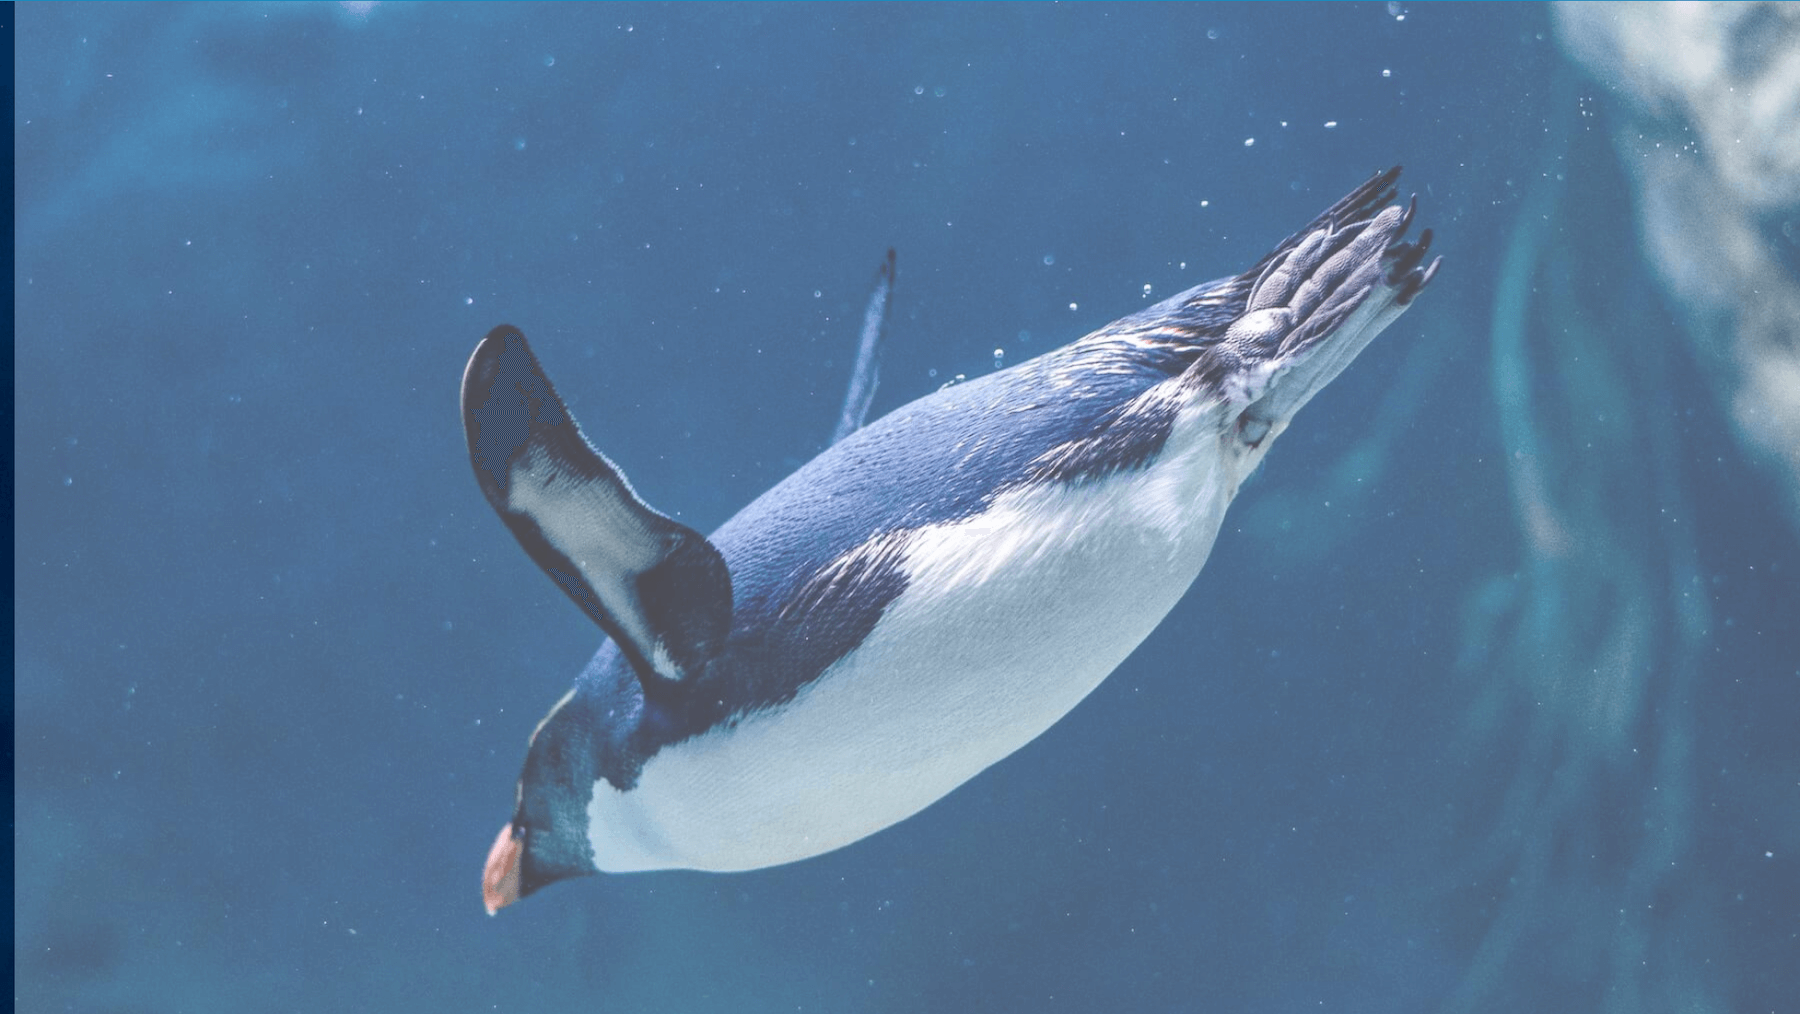
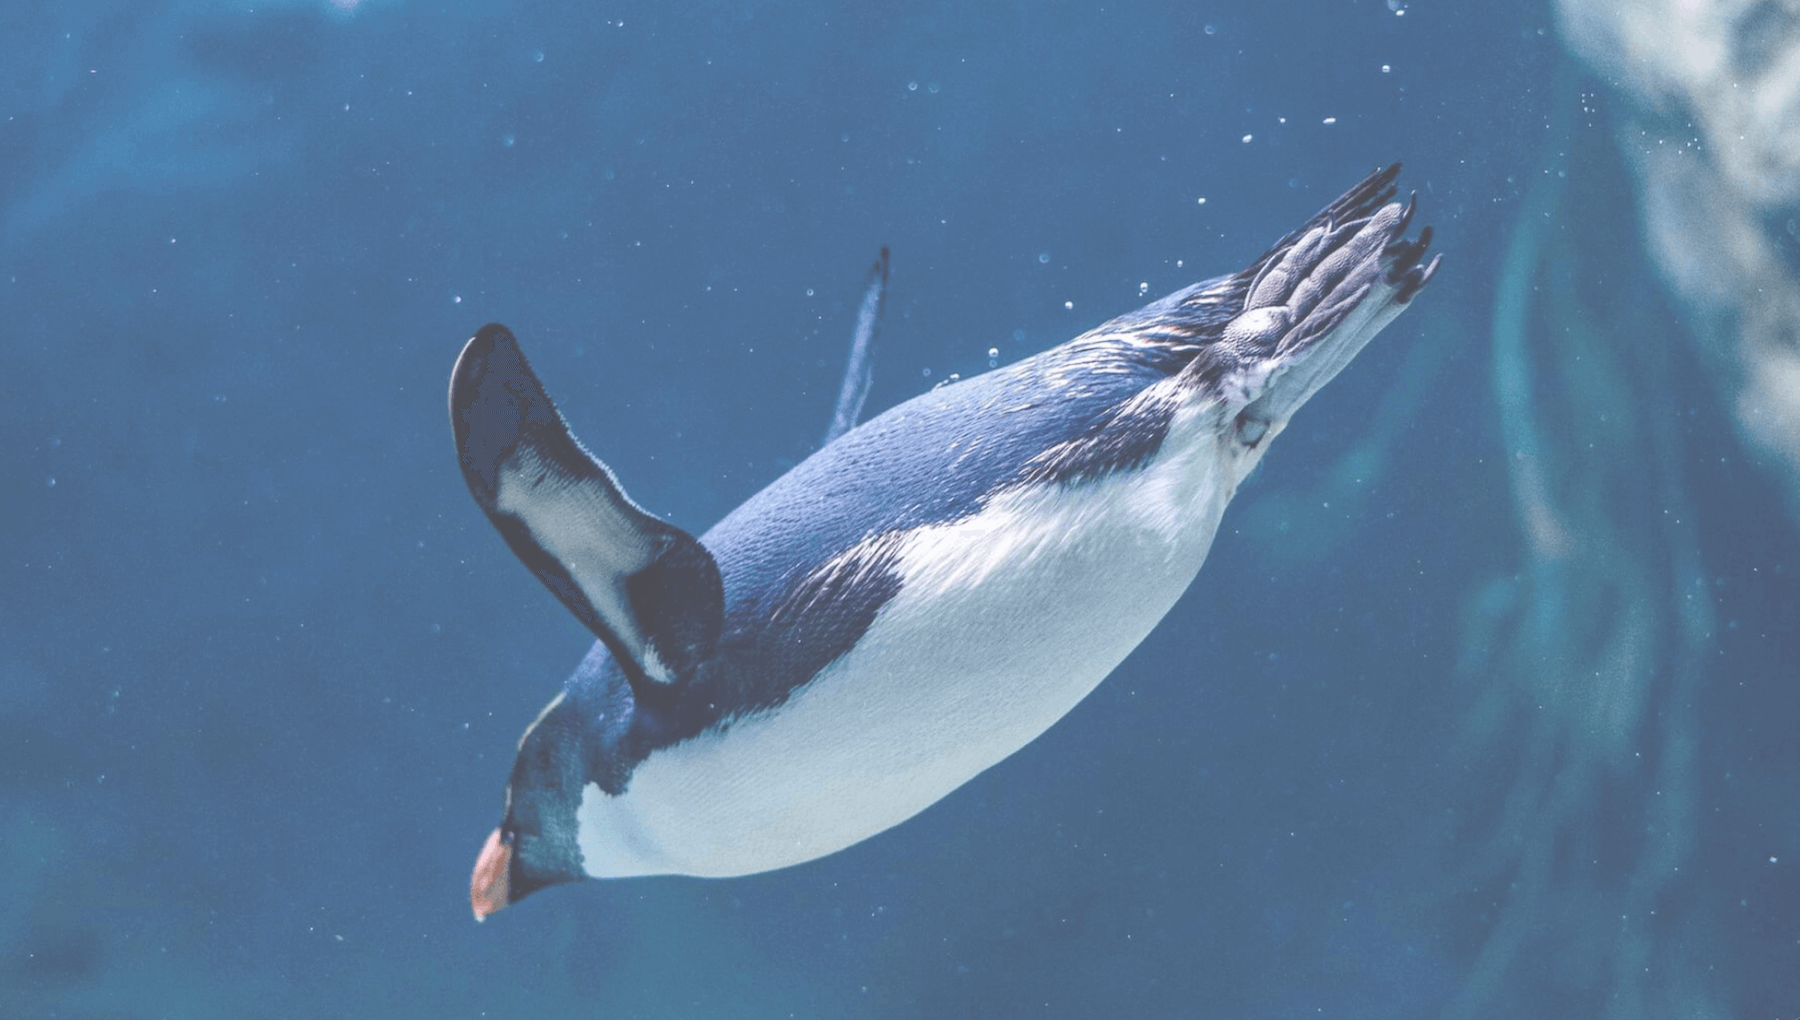
changing the background and last section

diff --git a/index.html b/index.html
@@ -101,45 +101,46 @@
 </section>
 
 <!----------------------- Testimonial section ------------------------>
-<section class="padded grid padded-sm">
+<section class="padded tall-80 grid">
      <!---- background image penguin in front ---->
-    <div class="bg-image bg-penguin-front padded-md bg-oval col-4 tall-70"> 
+    <div class="bg-image bg-penguin-front padded-md bg-oval col-4"> 
     </div>
 
-     <div class="col-2-middle font-weight-light padded-md">
+     <div class="col-4 text-center font-weight-light padded-md">
         <p> Pertti is one of our penguins who was saved last year, he has now his girlfriend and seems really happy. </p>
         <p> See the videos from the Island and how the penguins live. </p>
         <p> When the newborn going to adapt to make it on their own the mother is right there to follow them trough the journey. </p>
     </div>
 
-    <div class="col-3 grid-right padded-sm">
+    <div class="col-4 grid-right padded-sm">
       <div class="youtube-container col-8 padded-sm">
         <div class='embed-container'>
             <iframe src='https://www.youtube.com/embed/qHuTWK52PH8' frameborder='0' allowfullscreen></iframe>
         </div>
       </div>
-     </div>
-
-    <div class="col-3 grid-right padded-sm">
-     <div class="youtube-container col-8 padded-sm">
+      <div class="youtube-container col-8 padded-sm">
         <div class='embed-container'>
             <iframe src='https://www.youtube.com/embed/q3uXXh1sHcI' frameborder='0' allowfullscreen></iframe>
         </div>
      </div>
+
+    <!-- <div class="col-3 grid padded-sm"> -->
+     
+     <!-- </div> -->
    </div>
 
 </section>
 
 
 <!-----------------------Footer ------------------------>
-<footer class="padded grid-spaceBetween bg-blue">
-    <div class="col-4-bottom">
+<footer class="grid-spaceAround bg-blue">
+    <div class="col-4-bottom padded">
         <h2> Let's 
             <br> <span class="featured-text">connect</span> 
         </h2>
         <p> Lorem ipsum dolor sit amet consectetur adipisicing elit. Tempore quas error voluptas numquam dolores repellat eos ratione exercitationem vel sit, fugiat a ea accusamus modi est fugit beatae provident facere. </p>
     </div>
-    <div class="col-5-bottom">
+    <div class="col-5-bottom padded">
         <p> <strong>Call:</strong> <a href="tel:#"> 16052 2222 </a> </p>
         <p> <strong>Email:</strong> <a href="mailto:#"> penguinisland@hotmail.com </a> </p>
         <p> <strong>Store:</strong> 22 Penguins street, Antarctica </p>

diff --git a/style.css b/style.css
@@ -22,13 +22,6 @@ Body background: #F8F8FA;
     } */
     
     
-    /*  Image styles */
-    .bg-image {
-        background-image: url("/images/sleep-co-1.jpg");
-        background-size: cover;
-        min-height: 10rem;
-    }
-    
     
     /*  Universal styles & utility classes */
     body { 
@@ -51,7 +44,7 @@ Body background: #F8F8FA;
     .tall-5     { min-height: 50vh; }
     .tall-60    { min-height: 60vh; }
     .tall-70    { min-height: 70vh; }
-    .tall-8     { min-height: 80vh; }
+    .tall-80    { min-height: 80vh; }
     .tall-90    { min-height: 90vh; }
     .tall-100   { min-height: 100vh }
     
@@ -122,10 +115,15 @@ Body background: #F8F8FA;
     footer a  { border: none;      }
     
     
-    /* Background images */
+     /*  Image styles */
+     .bg-image {
+        background-image: url("/images/sleep-co-1.jpg");
+        background-size: cover;
+        background-repeat: no-repeat;
+    }
     .bg-penguin-stone { 
         background-image: url("/images/penguin-2.jpg");
-        background-position: 50% 35%; 
+        background-position: center;
     }
     
     .bg-penguin-baby   { 
